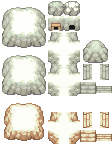
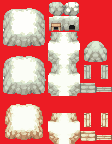
updated map

diff --git a/assets/WinterDeadTrees.tsx b/assets/WinterDeadTrees.tsx
@@ -1,4 +1,4 @@
 <?xml version="1.0" encoding="UTF-8"?>
 <tileset version="1.5" tiledversion="1.7.2" name="WinterDeadTrees" tilewidth="16" tileheight="16" tilecount="4" columns="4">
- <image source="Nature/WinterDeadTrees.png" trans="000000" width="64" height="16"/>
+ <image source="Nature/WinterDeadTrees.png" trans="ec1c24" width="64" height="16"/>
 </tileset>

diff --git a/assets/Cliff_winter.tsx b/assets/Cliff_winter.tsx
@@ -1,4 +1,4 @@
 <?xml version="1.0" encoding="UTF-8"?>
 <tileset version="1.5" tiledversion="1.7.2" name="Cliff_winter" tilewidth="16" tileheight="16" tilecount="63" columns="7">
- <image source="Cliff_winter.png" trans="000000" width="112" height="144"/>
+ <image source="Cliff_winter.png" trans="ec1c24" width="112" height="144"/>
 </tileset>

diff --git a/assets/Rocks.tsx b/assets/Rocks.tsx
@@ -1,4 +1,4 @@
 <?xml version="1.0" encoding="UTF-8"?>
 <tileset version="1.5" tiledversion="1.7.2" name="Rocks" tilewidth="16" tileheight="16" tilecount="12" columns="3">
- <image source="Nature/Rocks.png" trans="000000" width="48" height="64"/>
+ <image source="Nature/Rocks.png" trans="ec1c24" width="48" height="64"/>
 </tileset>

diff --git a/assets/Tombstones.tsx b/assets/Tombstones.tsx
@@ -1,0 +1,4 @@
+<?xml version="1.0" encoding="UTF-8"?>
+<tileset version="1.5" tiledversion="1.7.2" name="Tombstones" tilewidth="16" tileheight="16" tilecount="8" columns="4">
+ <image source="Miscellaneous/Tombstones.png" trans="000000" width="64" height="32"/>
+</tileset>
